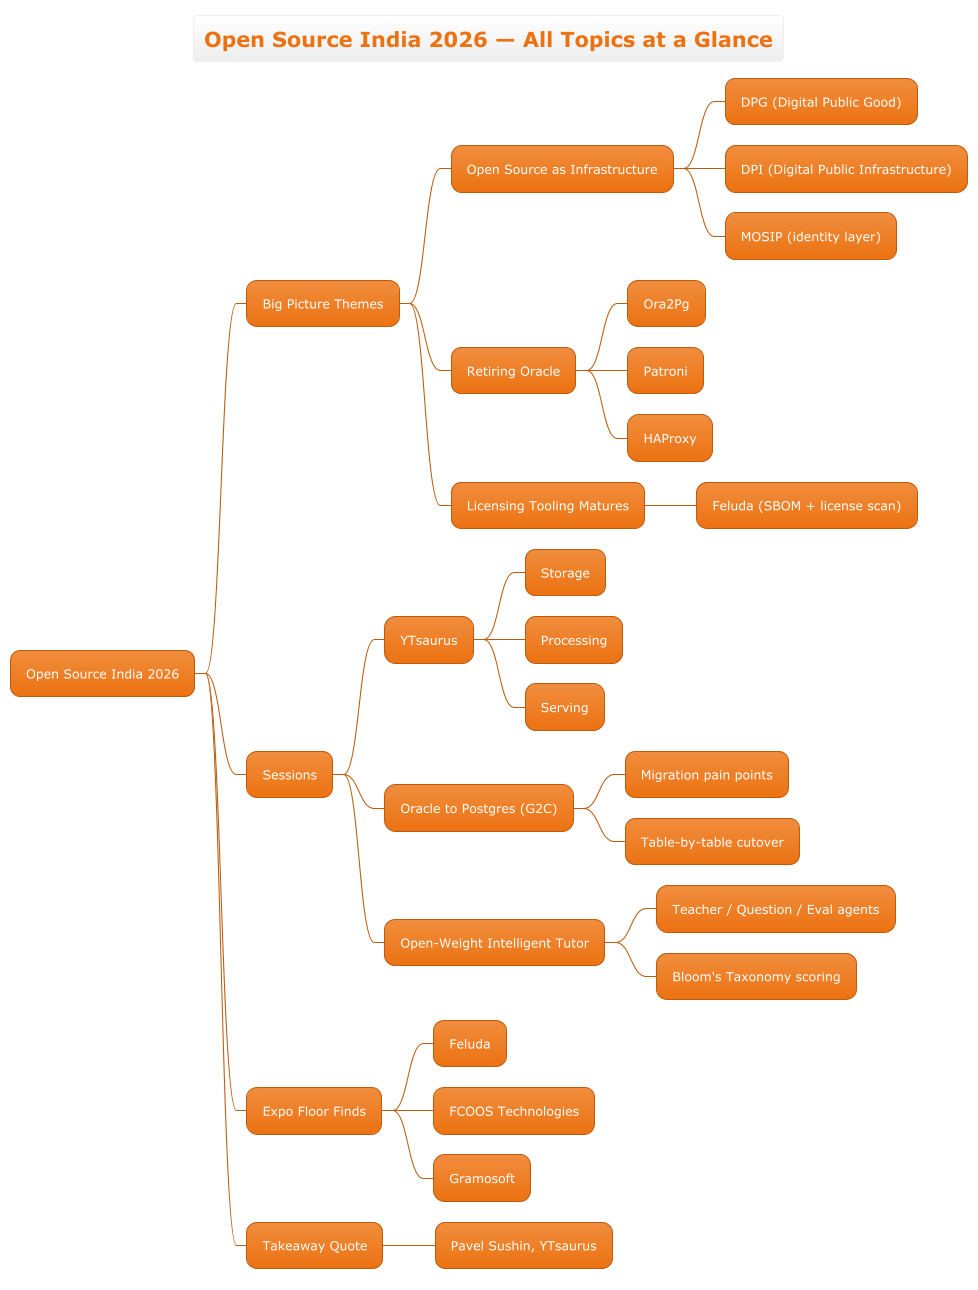
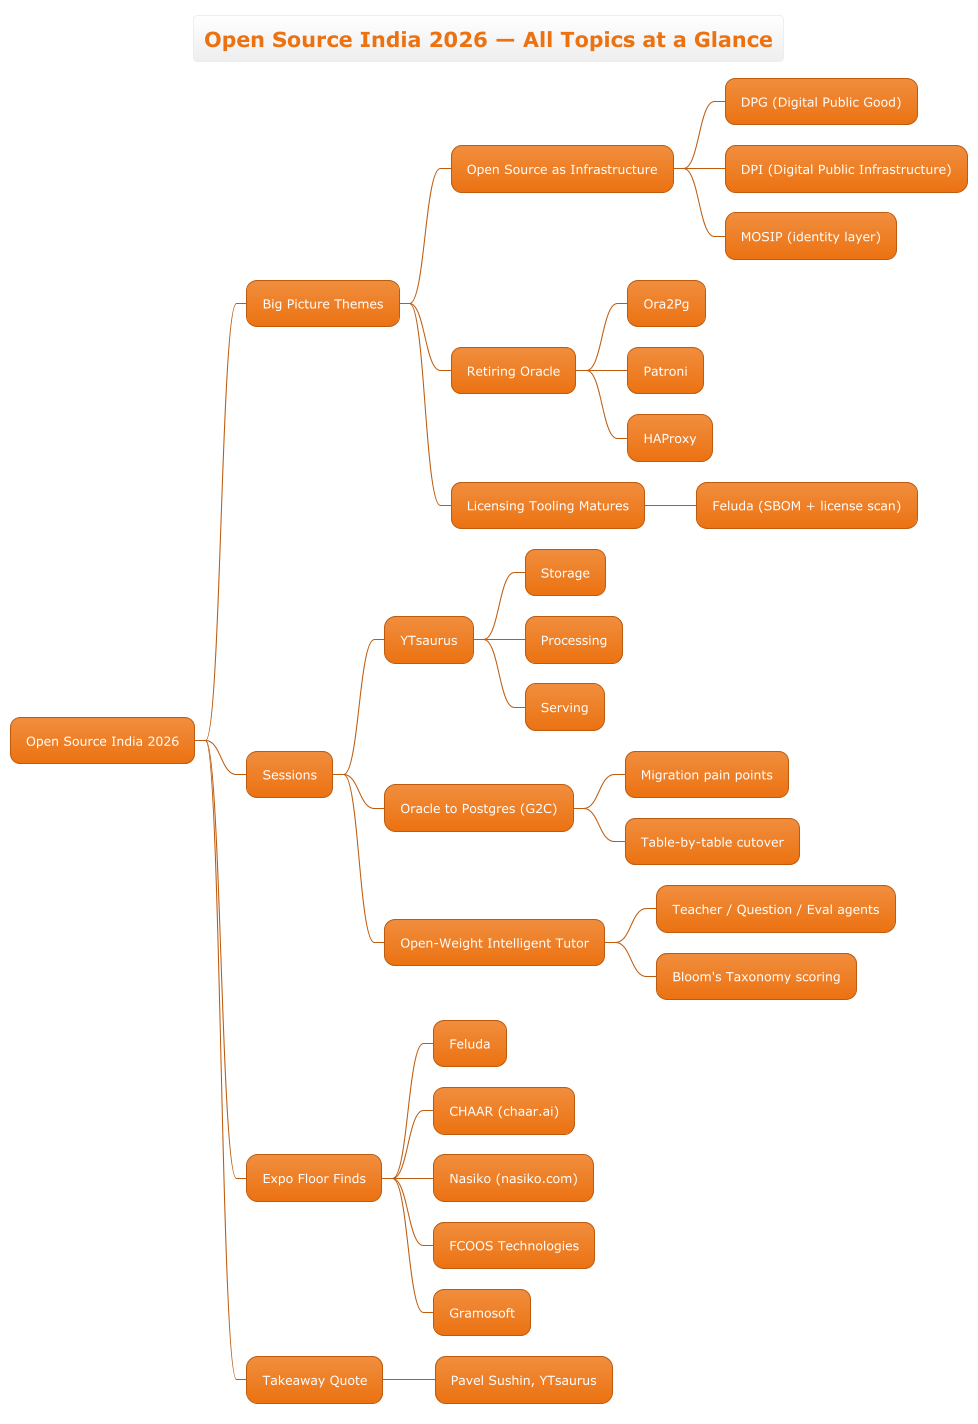
char ai and nasiko

diff --git a/events/tech-summits/OpenSource India-OSI-Oct-8-2026/README.MD b/events/tech-summits/OpenSource India-OSI-Oct-8-2026/README.MD
@@ -96,9 +96,13 @@ Open Source India (OSI) is organized annually by Open Source For You (OSFY/EFY),
 
 ## Sleepers Worth a Second Look
 
-Two stalls, easy to miss between the main-stage talks:
+A few stalls, easy to miss between the main-stage talks:
 
 **Feluda** (github.com/anistark/feluda) — a license-compliance scanner built by Bangalore-based developer Anirudha ("anistark"), who's also active in the Python India / BangPypers community. It's a Rust CLI that scans dependencies across nearly a dozen language ecosystems, flags licenses that are legally risky for your project, and generates an SBOM (software bill of materials) in SPDX or CycloneDX format — plus NOTICE files, and it plugs into CI/CD (GitHub Actions, Jenkins, GitHub Advanced Security/SARIF). If your legal team still does license review by hand, this is the tool that makes that unnecessary.
+
+**CHAAR** (chaar.ai, by sixtythreelabs) — a remote agent-development environment: it lets you kick off AI coding agents (Claude Agent, Codex CLI, Gemini CLI, GitHub Copilot, Cursor, and anything else speaking the Agent Client Protocol) on a cloud box or spare machine, then monitor and approve them from your laptop or phone without setting up a VPN or opening ports. Closing your laptop doesn't kill the agent's run, sessions sync across devices, and approval requests can be answered straight from a lock-screen notification. A fairly specific, practical answer to "my coding agent is still running, how do I check on it from my phone."
+
+**Nasiko** (nasiko.com) — pitched as an "open runtime for agents," this sits between your AI agents and whatever models/tools they call, so you can actually see what they're doing and what it's costing. It claims a 42% cut in input tokens through compressing tool outputs and roughly 40% lower cost per correct answer, plus runtime controls to allow/block/require-approval on specific tool calls and identity-based access for MCP connections. There's also a model-routing layer that picks the most cost-effective provider per task across a single API. Free tier available, no credit card required; paid tiers run $20/month individual or $99/month per team. Logoed customers listed on the site include Google, Microsoft, IBM, Oracle, and Boeing — worth a grain of salt on a startup's own homepage, but a signal of who they're chasing.
 
 **FCOOS Technologies and Gramosoft** — two smaller consultancy booths worth a mention for contrast rather than a deep dive. FCOOS pitches "secure, open, future-ready" IT infrastructure (pfSense/OPNsense firewalls, NAS/backup, Google Workspace/ERPNext integration) — the unglamorous but necessary open-source-powered IT-services end of the ecosystem. Gramosoft, by contrast, was a broader "we do everything" dev shop (GenAI, RPA, web scraping, Oracle core banking) — less a product than a staffing pitch, and a useful reminder that not every booth at an open-source conference is actually about open source.
 
